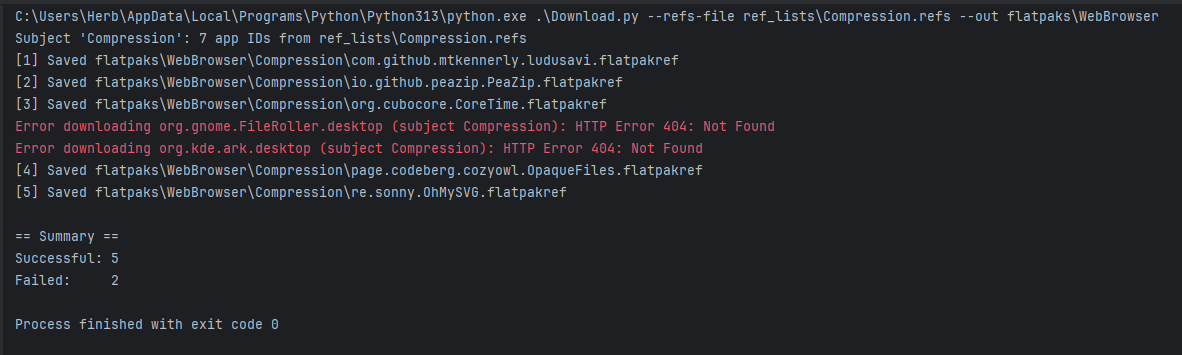
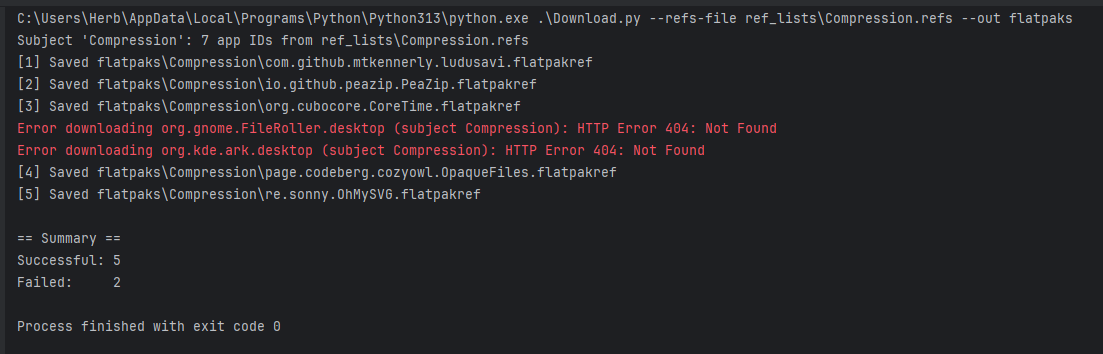
Update README and add Flatpak ref files for various applications

diff --git a/README.md b/README.md
@@ -2,8 +2,9 @@
 
 [![PyCharm](https://img.shields.io/badge/PyCharm-000?logo=pycharm&logoColor=fff)](#)
 [![Python](https://img.shields.io/badge/Python-3.9%2B-3776AB?logo=python&logoColor=fff)](#)
+[![Lisence]]
 
-Generate Flatpak ref lists from Flathub and download the corresponding .flatpakref descriptor files.
+“Flathub Refs Toolkit — generate and download .flatpakref descriptor lists directly from Flathub’s AppStream metadata.”
 
 This repository contains two small utilities:
 - Query.py — builds .refs files by reading Flathub AppStream, grouped by category.
@@ -64,7 +65,7 @@ python .\Query.py -c Development --arch aarch64 --branch stable --out refs-aarch
 ### 2) Download .flatpakref files (Download.py)
 From a single refs file into flatpakrefs\<subject>\:
 ```powershell
-python .\Download.py --refs-file ref_lists\Compression.refs --out flatpaks\WebBrowser
+python .\Download.py --refs-file ref_lists\Compression.refs --out flatpaks
 ```
 ![download_image.png](images/download_image.png)
 
@@ -76,6 +77,14 @@ python .\Download.py --refs-dir ref_lists --out \refs_downloads
 Combine multiple refs files explicitly:
 ```powershell
 python .\Download.py -f refs\WebBrowser.ref_lists -f refs\Development.refs --out out
+```
+
+### Quick Start
+```
+git clone https://github.com/APTlantis/Bulk-Flatpak-Refs.git
+cd Bulk-Flatpak-Refs
+python Query.py --all --out ref_lists
+python Download.py --refs-dir ref_lists --out flatpaks
 ```
 
 Useful options:
